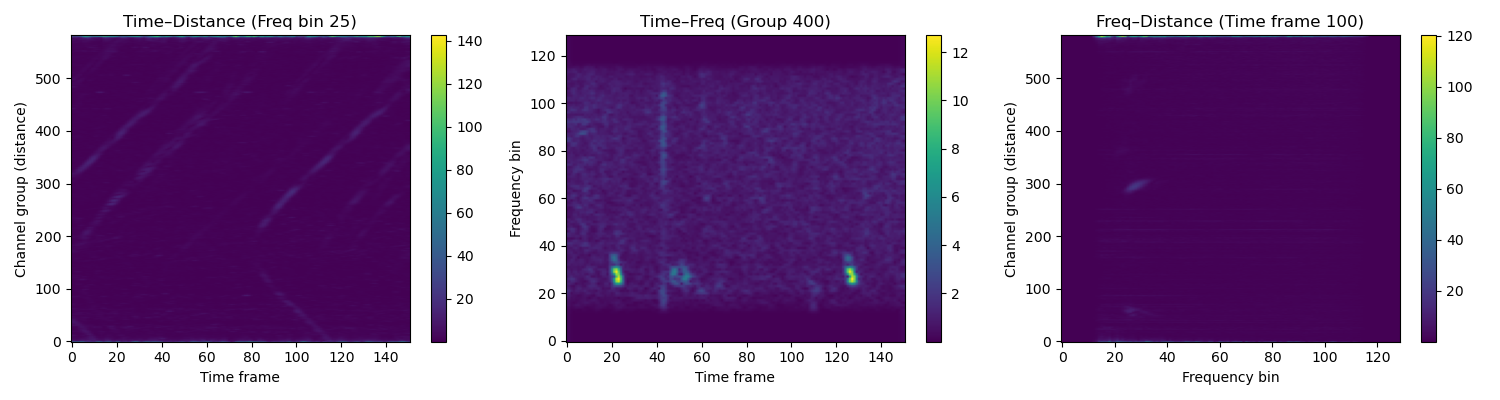
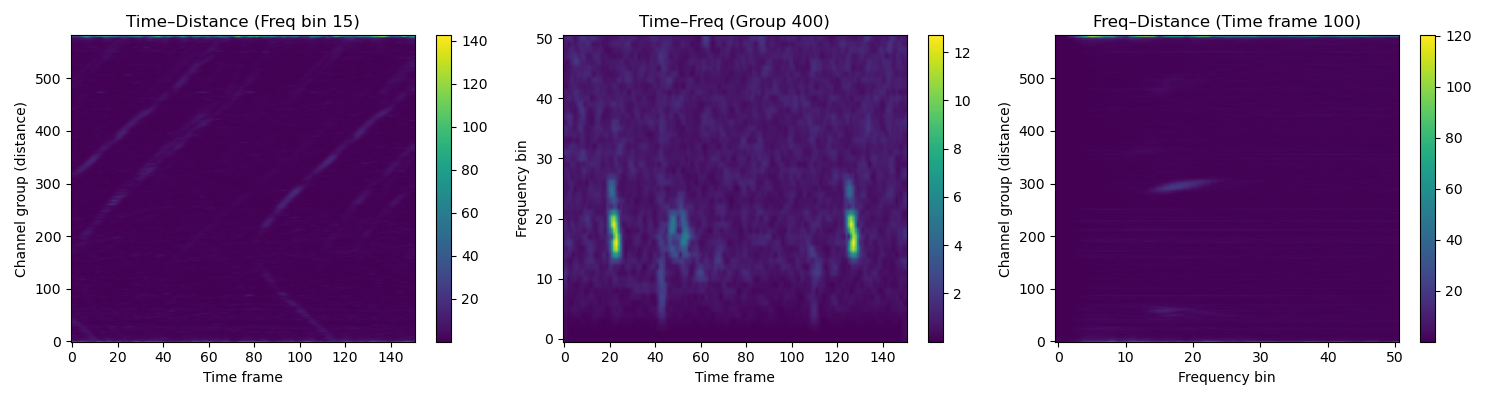
a working version that saves the data for segmentation. Also a script for plotting it.

diff --git a/segment_data_prep/main.py b/segment_data_prep/main.py
@@ -75,14 +75,64 @@ def generate_2D_mask(tx_img, x_extent, t_extent, x_lab, t_lab,
 
     return  mask
 
-def map_mask_to_3D():
-    return 0
+def map_mask_to_reduced_size(mask_orig, t_orig, x_orig, t_new, x_new):
+    """
+    Downsample integer detection-ID mask to match reduced space×time size.
+
+    Parameters
+    ----------
+    mask_orig : ndarray (n_x_orig, n_t_orig)
+        Original integer detection-number mask (0 = no detection).
+    t_orig : ndarray
+        Time coordinates of original frames (length n_t_orig).
+    x_orig : ndarray
+        Spatial coordinates of original channels (length n_x_orig).
+    t_new : ndarray
+        Time coordinates of reduced output (length n_t_new).
+    x_new : ndarray
+        Spatial coordinates of reduced output (length n_x_new).
+
+    Returns
+    -------
+    mask_new : ndarray (n_x_new, n_t_new)
+        Reduced mask, each pixel holding the most frequent detection number
+        from its corresponding original block (0 if no detection).
+    """
+    n_x_new = len(x_new)
+    n_t_new = len(t_new)
+    mask_new = np.zeros((n_x_new, n_t_new), dtype=mask_orig.dtype)
+
+    dx_new = (x_new[1] - x_new[0]) if n_x_new > 1 else x_orig[-1] - x_orig[0]
+    dt_new = (t_new[1] - t_new[0]) if n_t_new > 1 else t_orig[-1] - t_orig[0]
+
+    half_dx = dx_new / 2.0
+    half_dt = dt_new / 2.0
+
+    for ix_new, x_center in enumerate(x_new):
+        x_min = x_center - half_dx
+        x_max = x_center + half_dx
+        idx_x = np.where((x_orig >= x_min) & (x_orig < x_max))[0]
+
+        for it_new, t_center in enumerate(t_new):
+            t_min = t_center - half_dt
+            t_max = t_center + half_dt
+            idx_t = np.where((t_orig >= t_min) & (t_orig < t_max))[0]
+
+            if len(idx_x) > 0 and len(idx_t) > 0:
+                block = mask_orig[np.ix_(idx_x, idx_t)]
+                # Find most frequent nonzero detection ID
+                values, counts = np.unique(block[block > 0], return_counts=True)
+                if len(values) > 0:
+                    mask_new[ix_new, it_new] = values[np.argmax(counts)]
+                # else remains 0 (no detection)
+
+    return mask_new
 
 
 def compute_spectrograms(tx, fs, n_fft=256, hop_length=None, window=None):
     # Select device automatically
     device = torch.device("cuda" if torch.cuda.is_available() else "cpu")
-    print(f"Using device: {device}")
+    # print(f"Using device: {device}")
 
     # Make window if not supplied
     if window is None:
@@ -108,11 +158,38 @@ def compute_spectrograms(tx, fs, n_fft=256, hop_length=None, window=None):
 
     return specs_mag
 
+def save_sample(out_dir, sample_id, pooled_tensor, mask_reduced):
+    """
+    Save pooled tensor and mask in [channels, height, width] format.
+
+    pooled_tensor: np.ndarray shape (distance, freq, time) after pooling
+    mask_reduced: np.ndarray shape (distance, time) with class IDs
+    """
+
+    # Convert pooled to channels-first: (freq, distance, time)
+    pooled_cf = np.transpose(pooled_tensor, (1, 0, 2))  # freq, dist, time
+
+    # Convert to torch
+    pooled_cf_torch = torch.from_numpy(pooled_cf).float()
+    mask_torch = torch.from_numpy(mask_reduced).long()
+
+    os.makedirs(out_dir, exist_ok=True)
+
+    # Save dict
+    torch.save(
+        {
+            "input": pooled_cf_torch,  # [channels=freq, height=dist, width=time]
+            "mask": mask_torch         # [height=dist, width=time]
+        },
+        os.path.join(out_dir, f"{sample_id}.pt")
+    )
+
 #############################################################################
 # define settings
 #############################################################################
 # Spectrogram params:
 n_fft = 200
+f_band = [10, 60]
 hop_length = 40
 window = np.hanning(n_fft).astype(np.float32)  # NumPy Hann on CPU
 # try:
@@ -120,9 +197,13 @@ window = torch.tensor(window, dtype=torch.float32).to("cuda")
 # except Exception as e:
 #     print(e)
 #     print('CUDA didn''t work. Running on CPU instead.')
-    
-pool_method = 'max' # max, mean, or median
+
+# Pooling settings:
+pool_method = 'median' # max, mean, or median
 pool_size = 10
+
+# save loc:
+save_loc = r'/mnt/class_data/esnyder/segmentation_data/fixed_width_masks_data'
 #############################################################################
 # load labels
 #############################################################################
@@ -139,7 +220,6 @@ cur.execute(query)
 rows = cur.fetchall()
 
 labels = pd.read_sql_query(query, conn)
-
 
 ###################################################
 # Set up looping for going over datasets and files
@@ -186,7 +266,7 @@ for dataset in datasets:
 
     previous_labels = {'x_m': [], 't_s': [], 'det_num': []}
 
-    for file in source_files[:2]: # TODO remove :2 to iterate over all files
+    for file in source_files: 
         # load tx data
         fk_dehyd, timestamp = io.load_preprocessed_h5(os.path.join(dataset_path, file))        
         tx = 1e9 * io.rehydrate(fk_dehyd, nonzeros, original_shape, return_format='tx')
@@ -232,40 +312,43 @@ for dataset in datasets:
 
         group_size = pool_size
         n_channels, n_freq_bins, n_time_frames = specs.shape
+        f_new = np.fft.rfftfreq(n_fft, d=1/fs)
         x_new = np.arange(0, n_channels)*dx
-        f_new = np.arange(0, n_freq_bins)*fs/(2*n_freq_bins)
         t_new = np.arange(0, n_time_frames)*dt_new
-        
-        # TODO RESUME HERE!!!!!!!!!!!!!!!!!!!!!!!
-        # truncate in frequency dimension to reduce data size. 
-        # Save x_new (truncated after remainder is removed), f_new (truncated), t_new 
-        # Map original mask onto x_new, t_new space to create new mask.
-        # Save 
-        
+                        
         # Trim channels so we can group evenly
         remainder = n_channels % group_size
         if remainder != 0:
             specs = specs[:n_channels - remainder]
+            mask = mask[:mask.shape[0] - remainder, :]
             n_channels = specs.shape[0]
+            x_new = x_new[:n_channels - remainder]
 
-        n_groups = n_channels // group_size
-
+        # truncate in frequency dimension 
+        band_idx = np.where((f_new >= f_band[0]) & (f_new <= f_band[1]))[0]
+        specs = specs[:, band_idx, :]
+        f_new = f_new[band_idx]
+        n_freq_bins = len(f_new)
+        
         # Reshape to (n_groups, group_size, freq, time) and max over group_size
+        n_groups = n_channels // group_size
         specs_grouped = specs.view(n_groups, group_size, n_freq_bins, n_time_frames)
         
         if pool_method=='max':
             pooled = specs_grouped.max(dim=1).values      
-            pooled_cpu = pooled.to('cpu').numpy() 
+            pooled = pooled.to('cpu').numpy() 
         elif pool_method=='mean':
             pooled = specs_grouped.mean(dim=1)
-            pooled_cpu = pooled.to('cpu').numpy()
+            pooled = pooled.to('cpu').numpy()
         elif pool_method=='median':
             pooled = specs_grouped.median(dim=1).values 
-            pooled_cpu = pooled.to('cpu').numpy()
+            pooled = pooled.to('cpu').numpy()
+        
+        x_new = np.arange(0, pooled.shape[1])*x_new.max()/pooled.shape[1]
         
         if True: # plotting some slices. Set to false for full run
             # Pick indices to slice at
-            freq_idx = 25               # example frequency bin
+            freq_idx = np.argmin(np.abs(f_new - 25))
             chan_group_idx = 400          # example channel group
             time_idx = 100               # example time frame
 
@@ -273,7 +356,7 @@ for dataset in datasets:
 
             # 1⃣ TIME–DISTANCE slice (fix freq)
             img1 = axs[0].imshow(
-                pooled_cpu[:, freq_idx, :],   # n_groups × n_time_frames
+                pooled[:, freq_idx, :],   # n_groups × n_time_frames
                 origin='lower',
                 aspect='auto',
                 cmap='viridis'
@@ -285,7 +368,7 @@ for dataset in datasets:
 
             # 2⃣ TIME–FREQ slice (fix channel group)
             img2 = axs[1].imshow(
-                pooled_cpu[chan_group_idx, :, :],  # n_freq_bins × n_time_frames
+                pooled[chan_group_idx, :, :],  # n_freq_bins × n_time_frames
                 origin='lower',
                 aspect='auto',
                 cmap='viridis'
@@ -297,7 +380,7 @@ for dataset in datasets:
 
             # 3⃣ FREQ–DISTANCE slice (fix time)
             img3 = axs[2].imshow(
-                pooled_cpu[:, :, time_idx],        # n_groups × n_freq_bins
+                pooled[:, :, time_idx],        # n_groups × n_freq_bins
                 origin='lower',
                 aspect='auto',
                 cmap='viridis'
@@ -310,4 +393,48 @@ for dataset in datasets:
             plt.tight_layout()
             plt.savefig('slices_' + pool_method + 'Pool.png')
 
-        ok = 1
+        # Original mask coords
+        t_orig_coords = np.arange(mask.shape[1]) * dt       # seconds for each time pixel
+        x_orig_coords = np.arange(mask.shape[0]) * dx       # meters for each channel
+
+        # Reduced coords from pooled data
+        t_new_coords = np.arange(pooled.shape[2]) * dt_new
+        x_new_coords = np.arange(pooled.shape[0]) * (x_extent / pooled.shape[0])
+
+        # transpose pooled
+
+        # map mask to new dimensions
+        mask_reduced = map_mask_to_reduced_size(mask, 
+                                        t_orig_coords, x_orig_coords,
+                                        t_new_coords, x_new_coords)
+
+        # force mask to be same dimensions as pooled data:
+        x_dif = mask_reduced.shape[0] - pooled.shape[0] 
+        t_dif = mask_reduced.shape[1] - pooled.shape[2] 
+        if x_dif>0:
+            mask_reduced = mask_reduced[:-x_dif, :]
+        if x_dif<0:
+            # Repeat last row n times along the row axis (axis=0)
+            repeated_rows = np.repeat(mask_reduced[-1:, :], np.abs(x_dif), axis=0)
+
+            # Concatenate original array with repeated columns
+            mask_reduced = np.vstack((mask_reduced, repeated_rows))
+
+        if t_dif>0:
+            mask_reduced = mask_reduced[:, :-t_dif]
+        if t_dif<0:
+            # Repeat last col n times along the columns axis (axis=1)
+            repeated_cols = np.repeat(mask_reduced[:, -1:], np.abs(t_dif), axis=1)
+
+            # Concatenate original array with repeated columns
+            mask_reduced = np.hstack((mask_reduced, repeated_cols))
+
+        filename = dataset + '_' + file[:-3]
+        
+        save_sample(
+            out_dir=save_loc,
+            sample_id=filename,
+            pooled_tensor=pooled,           # shape (dist, freq, time)
+            mask_reduced=mask_reduced        # shape (dist, time)
+        )
+        print('file ' + file + ' in dataset ' + dataset + ' processed.')

diff --git a/segment_data_prep/examine_data.py b/segment_data_prep/examine_data.py
@@ -1,0 +1,67 @@
+import torch
+import matplotlib.pyplot as plt
+import numpy as np
+import glob
+import os
+
+def plot_sample(sample_path, save_name='saved_data.png'):
+    # Load data
+    data = torch.load(sample_path)
+    x = data["input"]   # shape [C=freq, H=dist, W=time]
+    y = data["mask"]    # shape [H=dist, W=time]
+
+    print(f"Loaded {sample_path}")
+    print(f"Input shape: {x.shape}, Mask shape: {y.shape}")
+
+    # Convert to NumPy for plotting
+    x_np = x.numpy()
+    y_np = y.numpy()
+
+    # Choose one frequency channel to visualize (like one color band in an image)
+    # freq_idx = x_np.shape[0] // 2   # middle frequency
+    # img_input = x_np[freq_idx, :, :]   # distance × time
+
+    # sum over all frequencies
+    
+    fig, axs = plt.subplots(1, 2, figsize=(12, 5))
+    img_input = np.sum(x_np, axis=0)
+    
+    # Plot input
+    im0 = axs[0].imshow(img_input, origin='lower', aspect='auto',
+                        cmap='viridis', vmin=0, vmax=40)
+    
+    # axs[0].set_title(f"Input channel {freq_idx} (dist × time)")
+    axs[0].set_title(f"Summed across all frequencies (dist × time)")
+    fig.colorbar(im0, ax=axs[0])
+    
+
+    # Plot mask
+    im1 = axs[1].imshow(y_np, origin='lower', aspect='auto', cmap='tab20')
+    axs[1].set_title("Segmentation mask (class IDs)")
+    fig.colorbar(im1, ax=axs[1])
+
+    plt.tight_layout()
+    plt.savefig(save_name)
+
+def plot_overlay(sample_path):
+    data = torch.load(sample_path)
+    x_np = data["input"].numpy()
+    y_np = data["mask"].numpy()
+
+    freq_idx = x_np.shape[0] // 2   # middle frequency
+    img_input = x_np[freq_idx, :, :]
+
+    plt.figure(figsize=(6, 5))
+    plt.imshow(img_input, origin='lower', aspect='auto', cmap='gray')
+    plt.imshow(np.ma.masked_where(y_np == 0, y_np), origin='lower', aspect='auto', cmap='autumn', alpha=0.5)
+    plt.title(f"Overlay: Input channel {freq_idx} + mask")
+    plt.colorbar()
+    plt.savefig('with_overlay.png')
+
+# Load and plot a few files
+sample_files = glob.glob("/mnt/class_data/esnyder/segmentation_data/fixed_width_masks_data/*.pt")[:3]  # first 3 files
+iter = 0
+for f in sample_files:
+    save_name = 'saved_data_' + str(iter) + '.png'
+    plot_sample(f, save_name)
+    iter += 1
